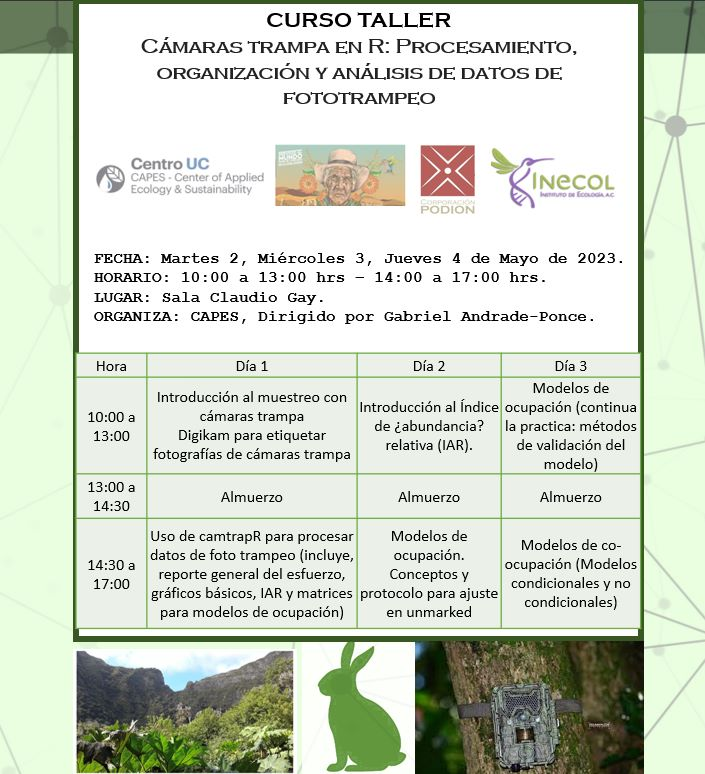
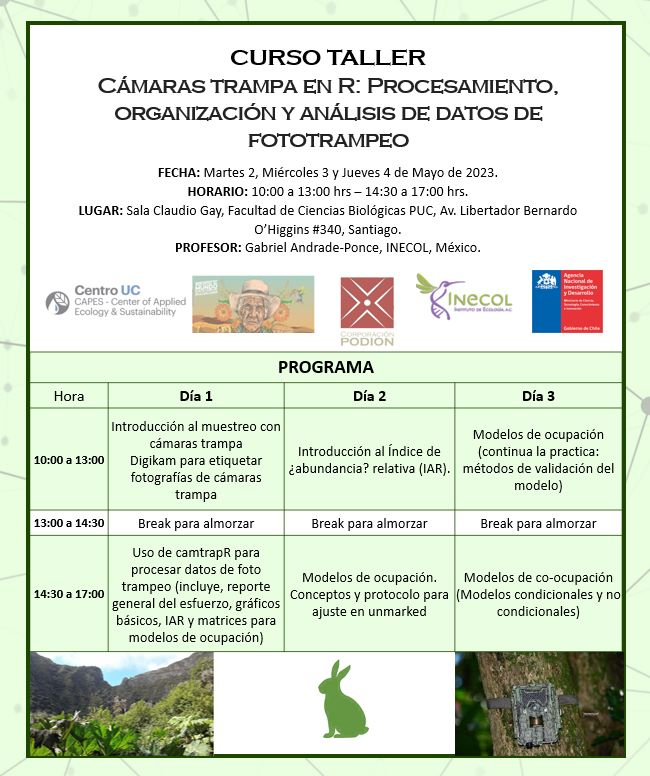
adicion flayer
flayer final con institución adicional

diff --git a/docs/index.html b/docs/index.html
@@ -219,7 +219,7 @@ code span.wa { color: #60a0b0; font-weight: bold; font-style: italic; } /* Warni
     <div>
     <div class="quarto-title-meta-heading">Fecha de publicación</div>
     <div class="quarto-title-meta-contents">
-      <p class="date">23 de abril de 2023</p>
+      <p class="date">24 de abril de 2023</p>
     </div>
   </div>
   
@@ -231,7 +231,7 @@ code span.wa { color: #60a0b0; font-weight: bold; font-style: italic; } /* Warni
 
 <section id="bienvenidos" class="level1">
 <h1>Bienvenidos</h1>
-<p>Hola a todos bienvenidos al curso de <strong>Cámaras trampa en R: Procesamiento Organización y Análisis de datos</strong>. En esta página encontrarán todas las instrucciones para llevar a cabo el curso.</p>
+<p>Hola a todos bienvenidos al curso de <strong>Cámaras trampa en R: Procesamiento Organización y Análisis de datos de fototrampeo</strong>. En esta página encontrarán todas las instrucciones para llevar a cabo el curso.</p>
 <div class="quarto-figure quarto-figure-center">
 <figure class="figure">
 <p><img src="img/flayer.jpg" class="img-fluid figure-img" width="462"></p>
@@ -325,7 +325,7 @@ code span.wa { color: #60a0b0; font-weight: bold; font-style: italic; } /* Warni
 </section>
 <section id="entidades-patrocinadoras" class="level1">
 <h1>Entidades patrocinadoras</h1>
-<p>Este curso fue posible gracias al apoyo del programa de Servicio al Mundo y la fundación Podion.</p>
+<p>Este curso fue posible gracias al apoyo del programa de Servicio al Mundo y la fundación Podion. La logística del evento es coordinada por el CAPES y con apoyo de ANID PIA/BASAL FB0002.</p>
 <div class="quarto-figure quarto-figure-center">
 <figure class="figure">
 <p><img src="img/institutions.png" class="img-fluid figure-img" width="702"></p>
